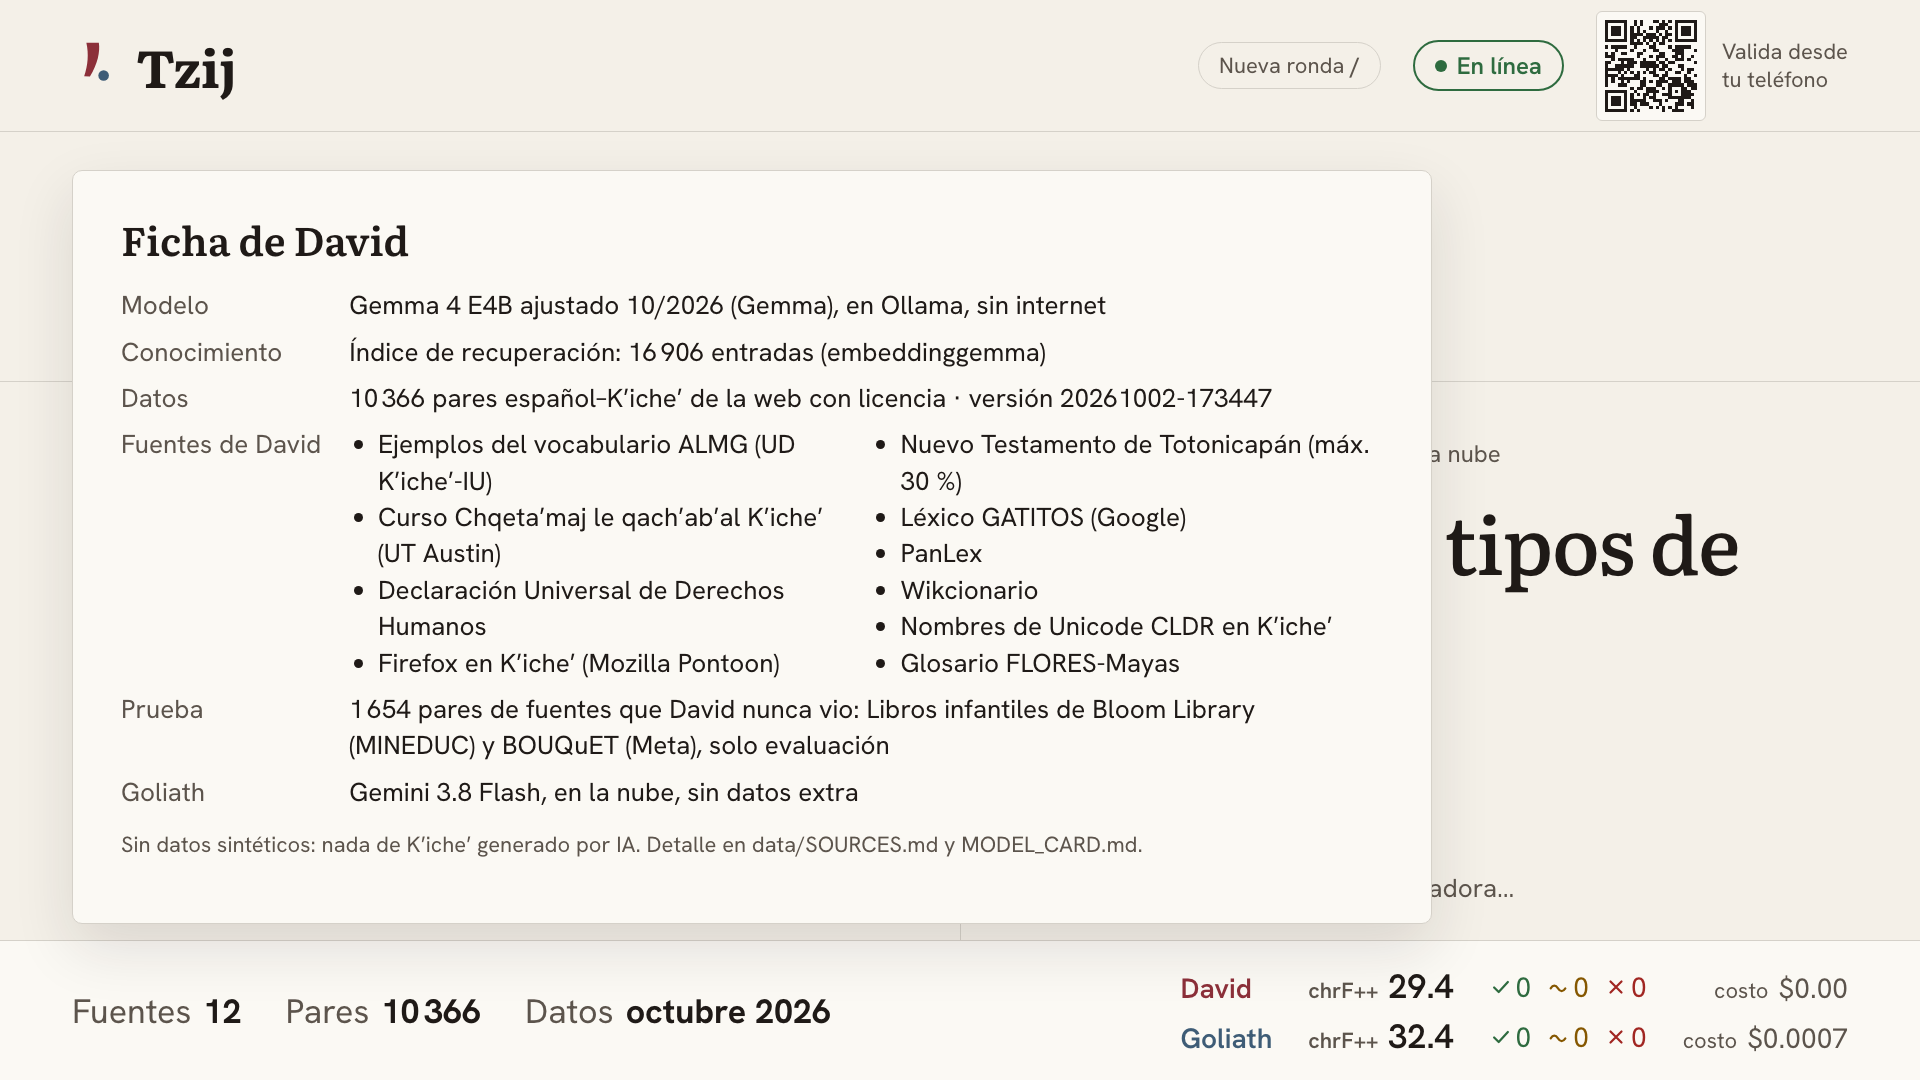
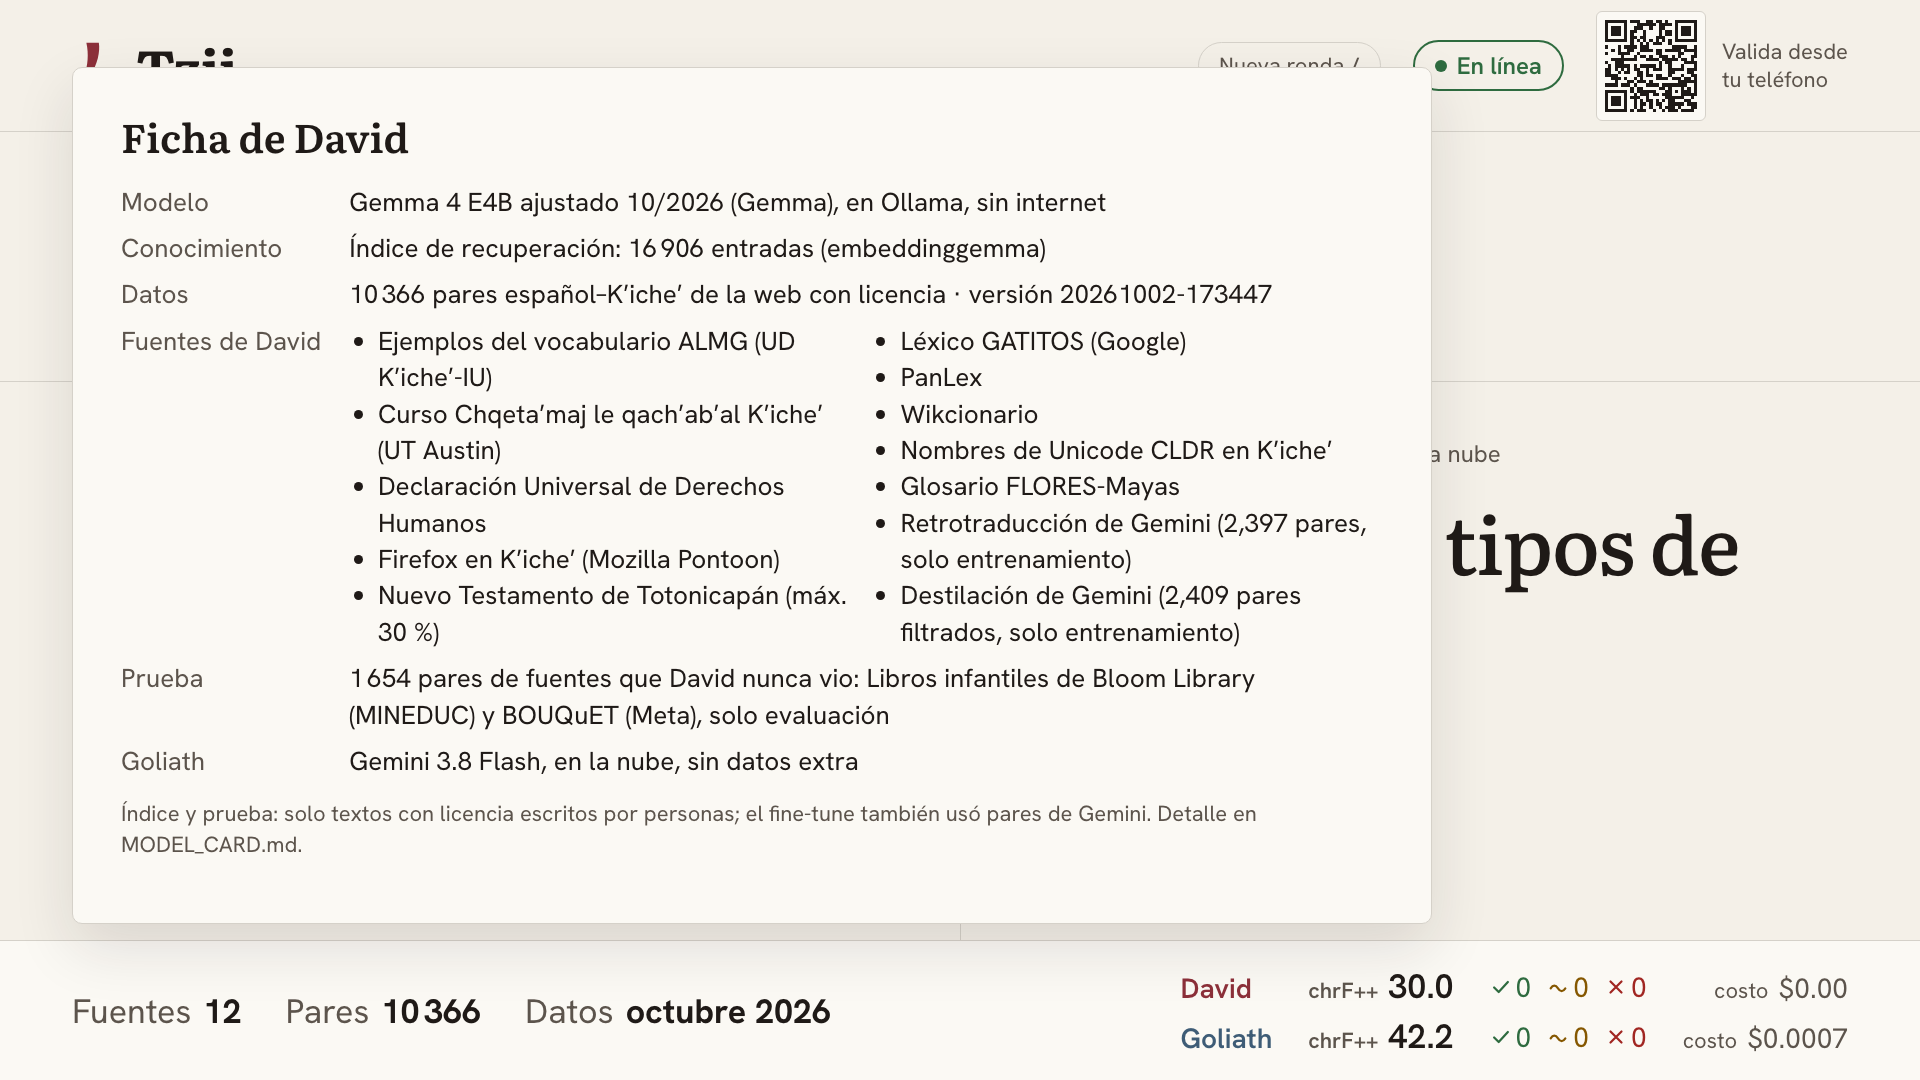
Demo screenshots retaken with tzij-2026-10-mix-s7; presenter only says it's waiting for a verdict when a validator phone is connected; emulator serial detected from adb; DECISIONES uses the current screenshots

diff --git a/web/components/presenter/Side.tsx b/web/components/presenter/Side.tsx
@@ -11,6 +11,7 @@ interface Props {
   model: string;
   round: Round | null;
   online: boolean;
+  validators?: number; // validator phones connected (the validator is optional)
 }
 
 const LABEL: Record<ContenderName, string> = { david: "David", goliath: "Goliath" };
@@ -47,7 +48,7 @@ function Result({ result, direction, compact }: { result: ContenderResult; direc
   );
 }
 
-export function Side({ name, model, round, online }: Props) {
+export function Side({ name, model, round, online, validators = 0 }: Props) {
   const result = round?.results[name];
   const other = round?.results[name === "david" ? "goliath" : "david"];
   const offline = result?.status === "offline" || (name === "goliath" && !online && !result);
@@ -91,12 +92,12 @@ export function Side({ name, model, round, online }: Props) {
         <span className="side__model">{subtitle(name, model)}</span>
       </header>
       <div className="side__body">{body}</div>
-      <footer className="side__foot">{round && result?.status === "ok" && <RoundScore name={name} round={round} result={result} other={other} />}</footer>
+      <footer className="side__foot">{round && result?.status === "ok" && <RoundScore name={name} round={round} result={result} other={other} validators={validators} />}</footer>
     </section>
   );
 }
 
-function RoundScore({ name, round, result, other }: { name: ContenderName; round: Round; result: ContenderResult; other?: ContenderResult }) {
+function RoundScore({ name, round, result, other, validators }: { name: ContenderName; round: Round; result: ContenderResult; other?: ContenderResult; validators: number }) {
   if (round.kind === "evaluacion") {
     if (result.chrf == null) return null;
     // A win needs a rival: if the other side is offline or failed, there is no duel to win.
@@ -110,7 +111,8 @@ function RoundScore({ name, round, result, other }: { name: ContenderName; round
   }
   const tally = round.tallies[name];
   const given = (Object.keys(tally) as VerdictName[]).filter((v) => tally[v] > 0);
-  if (!given.length) return <span className="side__awaiting">Esperando el veredicto de la validadora…</span>;
+  // The validator is optional: only say we're waiting for a verdict when a phone is connected.
+  if (!given.length) return validators > 0 ? <span className="side__awaiting">Esperando el veredicto del teléfono…</span> : null;
   return (
     <>
       {given.map((v) => (

diff --git a/web/app/presentador/page.tsx b/web/app/presentador/page.tsx
@@ -124,8 +124,8 @@ export default function Presenter() {
       )}
 
       <div className="duel">
-        <Side name="david" model={state.contenders.david.model} round={round} online={state.online} />
-        <Side name="goliath" model={state.contenders.goliath.model} round={round} online={state.online} />
+        <Side name="david" model={state.contenders.david.model} round={round} online={state.online} validators={state.validators} />
+        <Side name="goliath" model={state.contenders.goliath.model} round={round} online={state.online} validators={state.validators} />
       </div>
 
       <footer className="stage__foot">

diff --git a/web/lib/types.ts b/web/lib/types.ts
@@ -69,6 +69,7 @@ export interface PresenterState {
   niche_deck_size?: number;
   mock: boolean;
   index_warning: string | null;
+  validators?: number; // validator phones connected right now
 }
 
 export interface BlindRound {

diff --git a/duel/tzij_duel/events.py b/duel/tzij_duel/events.py
@@ -9,7 +9,7 @@ from __future__ import annotations
 
 import asyncio
 import json
-from typing import Any, AsyncIterator
+from typing import Any, AsyncIterator, Callable
 
 
 PRESENTER, VALIDATOR = "presenter", "validator"
@@ -19,8 +19,15 @@ class Broadcaster:
     """One subscriber set per audience. The validator's phones never receive the presenter's
     state (model names, latency, cost, reference): blindness is enforced here, not in the UI."""
 
-    def __init__(self) -> None:
+    def __init__(self, on_change: Callable[[str], None] | None = None) -> None:
         self._subscribers: dict[str, set[asyncio.Queue]] = {PRESENTER: set(), VALIDATOR: set()}
+        # Called with the channel when a subscriber joins or leaves (the presenter shows whether a
+        # validator phone is connected).
+        self.on_change = on_change
+
+    def _changed(self, channel: str) -> None:
+        if self.on_change:
+            self.on_change(channel)
 
     def publish(self, channel: str, event: str, data: Any) -> None:
         message = f"event: {event}\ndata: {json.dumps(data, ensure_ascii=False)}\n\n"
@@ -32,6 +39,7 @@ class Broadcaster:
         queue: asyncio.Queue = asyncio.Queue()
         subscribers = self._subscribers[channel]
         subscribers.add(queue)
+        self._changed(channel)
         try:
             if first:
                 yield first
@@ -42,6 +50,7 @@ class Broadcaster:
                     yield ": keepalive\n\n"
         finally:
             subscribers.discard(queue)
+            self._changed(channel)
 
     def count(self, channel: str) -> int:
         return len(self._subscribers[channel])

diff --git a/duel/tzij_duel/main.py b/duel/tzij_duel/main.py
@@ -97,7 +97,7 @@ class Service:
             if settings.mock_ai
             else Deck(settings.processed_dir, require_validated=settings.require_validated_test)
         )
-        self.events = Broadcaster()
+        self.events = Broadcaster(on_change=self._subscribers_changed)
         self.card = model_card(settings)
         self.validator_url = public_url(settings.public_url, settings.port) + "/validar/"
         self.online = True
@@ -131,11 +131,17 @@ class Service:
             "niche_deck_size": self.deck.niche_size,
             "mock": self.settings.mock_ai,
             "index_warning": self.index_warning,
+            "validators": self.events.count(VALIDATOR),
         }
 
     def validator_state(self) -> dict[str, Any]:
         current = self.store.current
         return {"round": current.blind() if current else None}
+
+    def _subscribers_changed(self, channel: str) -> None:
+        # A validator phone joining or leaving changes what the presenter shows on live rounds.
+        if channel == VALIDATOR:
+            self.events.publish(PRESENTER, "state", self.state())
 
     def publish(self) -> None:
         self.events.publish(PRESENTER, "state", self.state())

diff --git a/duel/tests/test_duel_service.py b/duel/tests/test_duel_service.py
@@ -339,3 +339,17 @@ async def test_specialty_round_draws_only_from_the_niche(service, tmp_path):
         assert normal.status_code == 200
         await _finish(service)
         assert (await client.get("/api/state")).json()["round"]["reference_meta"]["pair_id"] != "n1"
+
+
+async def test_presenter_state_counts_connected_validators(service):
+    # The validator is optional: the presenter only says it's waiting for a verdict when a phone is
+    # connected, so the state carries the count and is republished when a phone joins or leaves.
+    seen = []
+    service.events.on_change = lambda ch: seen.append((ch, service.state()["validators"]))
+    assert service.state()["validators"] == 0
+    stream = service.events.stream("validator", first="hello")
+    assert await stream.__anext__() == "hello"
+    assert service.state()["validators"] == 1
+    await stream.aclose()
+    assert service.state()["validators"] == 0
+    assert seen == [("validator", 1), ("validator", 0)]

diff --git a/docs/DEMO.md b/docs/DEMO.md
@@ -2,8 +2,9 @@
 
 Paso a paso para mostrar a David (Gemma 4 E4B ajustado, en la laptop) contra Goliath (Gemini 3.8
 Flash, en la nube). Cada paso es una pantalla, con las teclas exactas, la frase que se escribe, la
-idea que se dice y el tiempo esperado. Todas las capturas son de la variante de escenario real
-(`make demo-screens`). Las traducciones que se ven en ellas son **salida del modelo, sin validar**.
+idea que se dice y el tiempo esperado. Las capturas son de la variante de escenario
+(`tzij-2026-10-mix-s7` + recuperación híbrida + MBR-4, `make demo-screens`, 5 de octubre de 2026).
+Las traducciones que se ven en ellas son **salida del modelo, sin validar**.
 
 Duración total: unos 6 minutos (8 con el teléfono validador).
 
@@ -95,8 +96,8 @@ Después de la charla: `make stage-off` (en Tzij solo lo confirma: no hay nada e
 - **Idea:** "La frase y su referencia vienen de un libro con licencia del Ministerio de Educación.
   Ninguno de los dos la vio antes; chrF++ mide qué tanto se parece cada traducción a la
   referencia."
-- **Tiempo:** 45 s. David tarda unos 4 s porque genera 4 candidatos y elige el de consenso (MBR).
-  Goliath tarda unos 2 s.
+- **Tiempo:** 45 s. David tarda de 2 a 7 s según el largo de la frase (p50 en la prueba: 4.1 s)
+  porque genera 4 candidatos y elige el de consenso (MBR). Goliath tarda de 1 a 3 s.
 
 ## Paso 3 — Kʼicheʼ → español
 
@@ -124,11 +125,14 @@ Después de la charla: `make stage-off` (en Tzij solo lo confirma: no hay nada e
   S
   ```
 
-  `D` vuelve a español → Kʼicheʼ (`S` siempre usa esa dirección).
+  `D` vuelve a español → Kʼicheʼ (`S` siempre usa esa dirección). Pulsa `S` dos o tres veces: el
+  resultado es el de las 144 frases y una frase sola puede salir para cualquiera de los dos. La
+  primera del mazo («Tu búsqueda, tu manera», la de la captura) suele ganarla Goliath.
 - **Idea:** "Firefox Focus en Kʼicheʼ. David nunca vio este producto, pero tiene la memoria de
-  traducción de los demás productos de Mozilla. Aquí David le gana a Goliath: 37.4 contra 28.9 de
-  chrF++ en las 144 frases, +8.5 puntos. Lo definimos antes de ver los resultados."
-- **Tiempo:** 45 s.
+  traducción de los demás productos de Mozilla. En las 144 frases David le gana a Goliath: 37.4
+  contra 28.9 de chrF++, +8.5 puntos, y gana 81 frases contra 60 de Goliath. Lo definimos antes de
+  ver los resultados."
+- **Tiempo:** 1 min.
 
 ## Paso 5 — En vivo, una frase corta
 
@@ -166,7 +170,7 @@ Después de la charla: `make stage-off` (en Tzij solo lo confirma: no hay nada e
   En el teléfono se toca un veredicto. Para ensayar con el emulador:
 
   ```bash
-  adb -s emulator-5556 shell am start -a android.intent.action.VIEW \
+  adb shell am start -a android.intent.action.VIEW \
     -d http://10.0.2.2:8787/validar/ com.android.chrome
   ```
 

diff --git a/docs/DECISIONES.md b/docs/DECISIONES.md
@@ -139,13 +139,13 @@ Detalle por fuente, longitud, dominio y fallos en [`evals/report.md`](../evals/r
 
 ### En el escenario
 
-![Ronda de evaluación: la referencia viene de un libro con licencia; David y Goliath traducen la misma frase](screenshots/presenter-03-evaluation.png)
+![Ronda de evaluación: la referencia viene de un libro con licencia; David y Goliath traducen la misma frase](demo/02-evaluacion-es-quc.png)
 
-*Ronda de evaluación (con el David anterior). La frase y su **referencia** vienen de un libro de Bloom Library (MINEDUC Guatemala, CC BY 4.0). Las dos traducciones son **salida del modelo, sin validar** por una persona hablante nativa; chrF++ las compara con la referencia. David tardó 2.7 s con 4 muestras MBR (p50 en el reporte: 4.0 s) y Goliath 1.7 s.*
+*Ronda de evaluación con `tzij-2026-10-mix-s7`. La frase y su **referencia** vienen de un libro de Bloom Library (MINEDUC Guatemala, CC BY 4.0). Las dos traducciones son **salida del modelo, sin validar** por una persona hablante nativa; chrF++ las compara con la referencia (45.9 contra 47.3). David tardó 5.1 s con 4 muestras MBR en una frase larga (p50 en el reporte: 4.1 s) y Goliath 3.2 s.*
 
-![Con Wi-Fi apagado: David traduce en la laptop, Goliath aparece sin conexión](screenshots/presenter-06-offline.png)
+![Con Wi-Fi apagado: David traduce en la laptop, Goliath aparece sin conexión](demo/07-sin-conexion.png)
 
-*Misma ronda con la red cortada (interruptor de ensayo). La traducción de David es **salida del modelo, sin validar**.*
+*Otra ronda de evaluación con la red cortada (interruptor de ensayo). La traducción de David es **salida del modelo, sin validar**.*
 
 ## Versiones
 

diff --git a/docs/DECISIONES.en.md b/docs/DECISIONES.en.md
@@ -139,13 +139,13 @@ Breakdown by source, length, domain and failures in [`evals/report.md`](../evals
 
 ### On stage
 
-![Evaluation round: the reference comes from a licensed book; David and Goliath translate the same sentence](screenshots/presenter-03-evaluation.png)
+![Evaluation round: the reference comes from a licensed book; David and Goliath translate the same sentence](demo/02-evaluacion-es-quc.png)
 
-*Evaluation round (with the previous David). The sentence and its **reference** come from a Bloom Library book (MINEDUC Guatemala, CC BY 4.0). Both translations are **unvalidated model output**; chrF++ compares them with the reference. David took 2.7 s with 4 MBR samples (p50 in the report: 4.0 s) and Goliath 1.7 s.*
+*Evaluation round with `tzij-2026-10-mix-s7`. The sentence and its **reference** come from a Bloom Library book (MINEDUC Guatemala, CC BY 4.0). Both translations are **unvalidated model output**; chrF++ compares them with the reference (45.9 vs 47.3). David took 5.1 s with 4 MBR samples on a long sentence (p50 in the report: 4.1 s) and Goliath 3.2 s.*
 
-![With Wi-Fi off: David translates on the laptop, Goliath shows as offline](screenshots/presenter-06-offline.png)
+![With Wi-Fi off: David translates on the laptop, Goliath shows as offline](demo/07-sin-conexion.png)
 
-*Same kind of round with the network cut (rehearsal switch). David's translation is **unvalidated model output**.*
+*Another evaluation round with the network cut (rehearsal switch). David's translation is **unvalidated model output**.*
 
 ## Versions
 

diff --git a/docs/ONBOARDING.md b/docs/ONBOARDING.md
@@ -267,10 +267,10 @@ Requisito previo: `make web` **con** internet al menos una vez, porque `next/fon
 Desde el emulador, `10.0.2.2` es el `localhost` de la laptop.
 
 ```bash
-emulator -avd <tu_avd> &           # cualquier AVD con Chrome
+emulator -avd Pixel_9_API_36_1 &   # el AVD de los demos 2027 (cualquiera con Chrome sirve)
 make up                            # en otra terminal
-make emulator                      # ANDROID_SERIAL=emulator-5556 por defecto
-make emulator ANDROID_SERIAL=emulator-5554 BASE_URL=http://127.0.0.1:8787
+make emulator                      # el primer emulador de `adb devices` (o ANDROID_SERIAL=…)
+make emulator BASE_URL=http://127.0.0.1:8788   # si el duelo corre en otro puerto (DUEL_PORT)
 ```
 
 `web/tests/emulator.mjs` abre `http://10.0.2.2:8787/validar/` en el Chrome del emulador, lo controla por DevTools (`adb forward tcp:9333`), lanza una ronda en vivo, vota y mide cuánto tarda el voto en aparecer en el presentador. **Falla si tarda más de 1 s.** Las capturas quedan en `web/test-results/screens/`. Para probar a mano, abre `http://10.0.2.2:8787/validar/` en el Chrome del emulador.

diff --git a/docs/ESTRUCTURA.md b/docs/ESTRUCTURA.md
@@ -37,7 +37,7 @@ infra/         env.sh, 01-train-service-account.sh, 02-train-image.sh, 03-train-
 web/           Next.js: app/presentador, app/validar, components/, lib/, tests/
 tests/         pruebas del pipeline, normalización, recuperación y fertilidad
 docs/          ONBOARDING.md, DEMO.md, BITACORA.md, DECISIONES.md, COMANDOS.md, ESTRUCTURA.md, CREDITOS.md,
-               diagrams/, screenshots/ (toda traducción en una captura es salida del modelo, sin validar)
+               diagrams/, demo/ (toda traducción en una captura es salida del modelo, sin validar)
 MODEL_CARD.md  qué es David, con qué datos, resultados y límites
 ```
 

diff --git a/docs/ESTRUCTURA.en.md b/docs/ESTRUCTURA.en.md
@@ -39,7 +39,7 @@ infra/         env.sh, 01-train-service-account.sh, 02-train-image.sh, 03-train-
 web/           Next.js: app/presentador, app/validar, components/, lib/, tests/
 tests/         pipeline, normalization, retrieval and fertility tests
 docs/          ONBOARDING.md, DEMO.md, BITACORA.md, DECISIONES.md, COMANDOS.md, ESTRUCTURA.md, CREDITOS.md,
-               diagrams/, screenshots/ (every translation in a screenshot is unvalidated model output)
+               diagrams/, demo/ (every translation in a screenshot is unvalidated model output)
 MODEL_CARD.md  what David is, its data, results and limits
 ```
 
